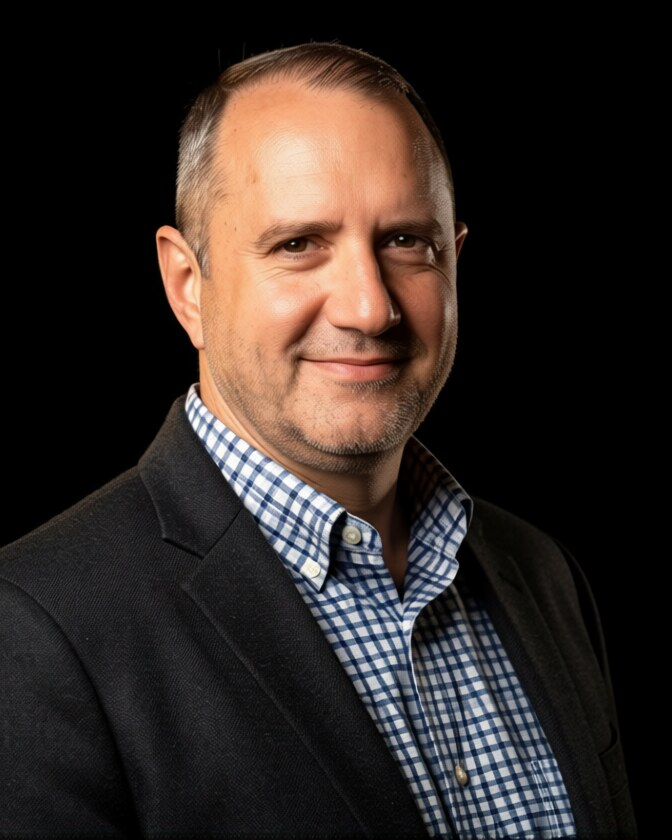
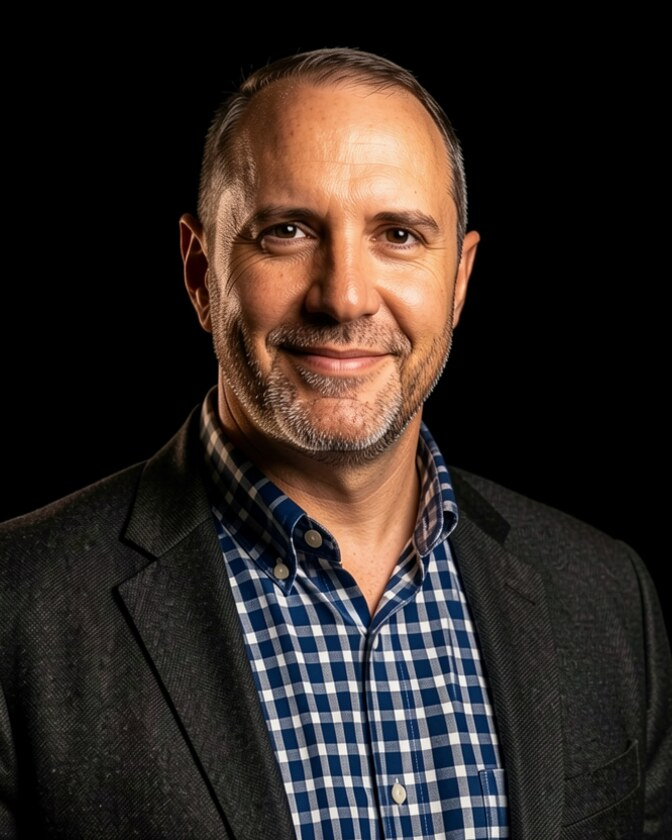
New headshot

diff --git a/content/home.md b/content/home.md
@@ -51,3 +51,13 @@ If you lead an agency, a government, a hospital, a firm, or a campus, and you ne
 
 Serving humbly. Leading fruitfully.
 
+
+## DRAFT — Army section (Patrick to edit; not built until approved). Proposed placement: between "What I believe" and "Cross Link Consulting".
+
+### U.S. Army Reserve · Biomedical Equipment Specialist
+I joined the Army at twenty, and it gave me three things I still use every day. The first was a year of the most demanding technical training I have ever had, at the U.S. Army Medical Equipment and Optical School (USAMEOS) in Aurora, Colorado [confirm: at Fitzsimons Army Medical Center]: electronics and electrical engineering, and above all troubleshooting, the discipline of dividing a problem quickly and arriving at the fault. That skill has outlived every piece of equipment I learned it on. It is how I lead people, how I run organizations, and how I have worn every hat in the small companies I founded.
+
+The second was the team. You learn in a unit that the person next to you is counting on you, and that serving well means showing up prepared. The third was the discovery, which the Army arranges deliberately, that you are capable of more than you think, and that discipline is what carries you there. Eight years in the Reserve, and I remain grateful to have served.
+
+### Resume line (Earlier career), proposed replacement
+- U.S. Army Reserve, Biomedical Equipment Specialist, eight years. One year of technical training at the U.S. Army Medical Equipment and Optical School (USAMEOS), Aurora, Colorado: electronics, electrical engineering, and fault-isolation troubleshooting, a discipline applied since to leading people and organizations.
